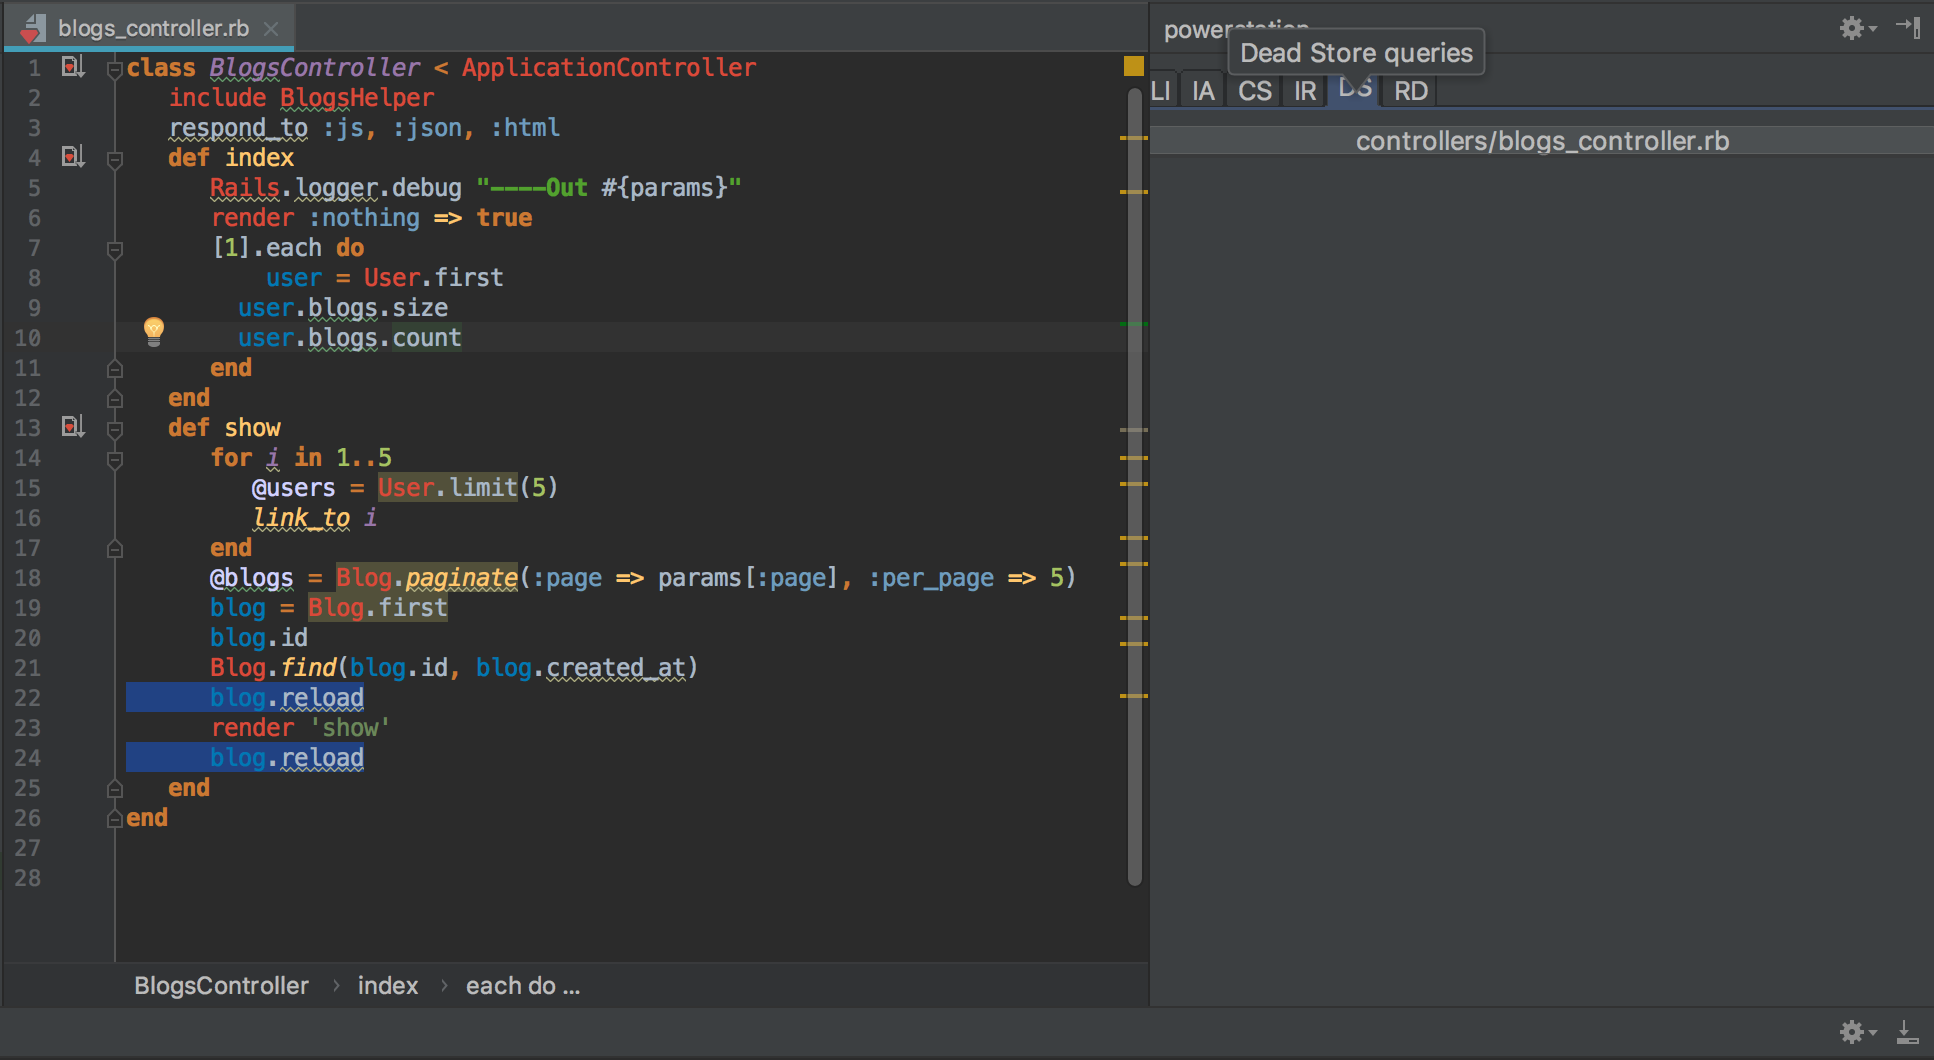
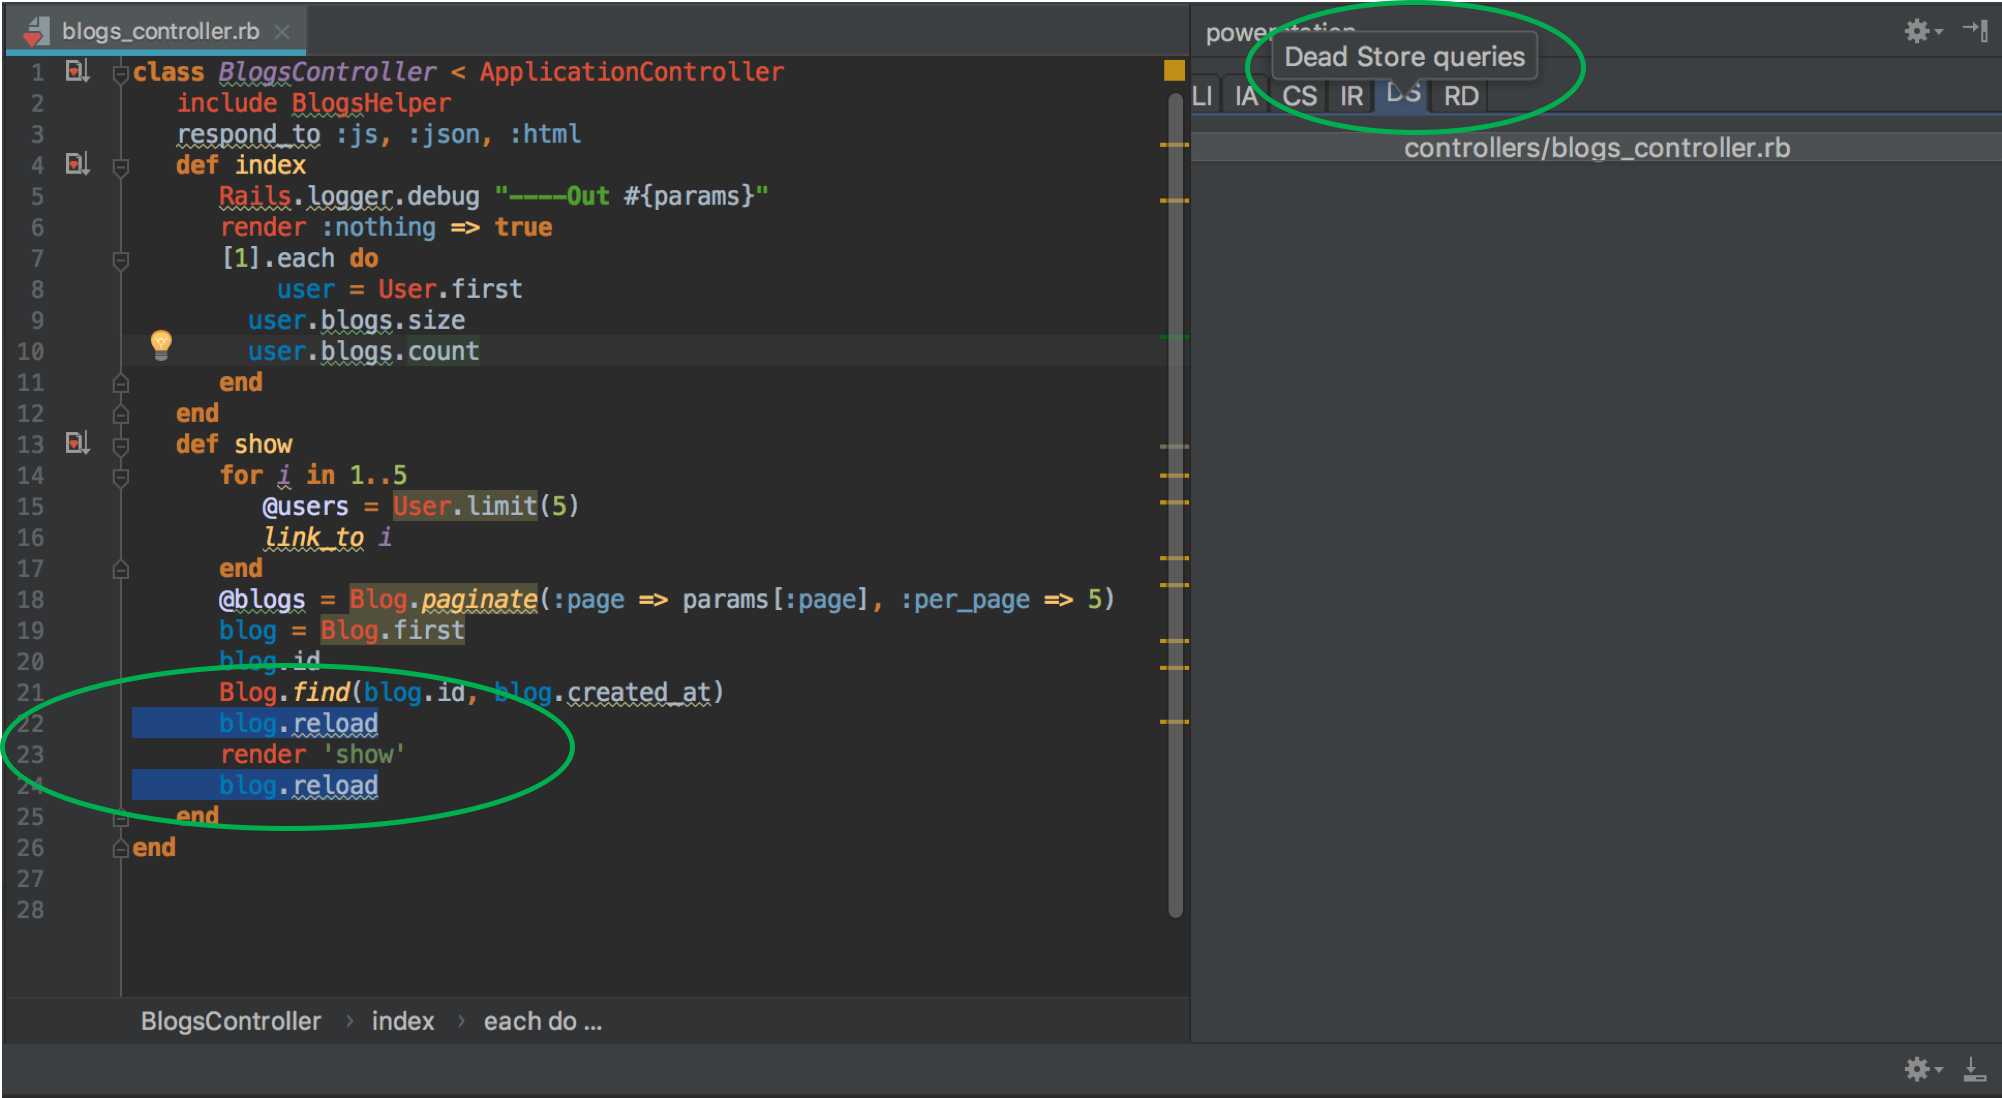
add circle to screenshots

diff --git a/css/main.scss b/css/main.scss
@@ -129,7 +129,8 @@ p img {
 
 .text-with-screenshots {
   p img{
-    max-width: 50%;
+    max-width: 70%;
   }
+  font-size: 18px;
 }
 

diff --git a/powerstation/docs/howtouse.md b/powerstation/docs/howtouse.md
@@ -10,35 +10,35 @@ layout: powerstation
 
 We use a small [blogging project](https://github.com/jwyoung1818/blog) to explain how to use PowerStation.
 
-1. Open your project with RubyMine:
-![Open Project](../../screenshots/load_project.png)
+1. Open your project with RubyMine:<br/>
+![Open Project](../../screenshots/load_project.png)<br/>
 
-2. Choose any file you want to analyze, and click `PowerStation`->`Analyze` to analyze the file:
-![Analyze](../../screenshots/navigate.png)
+2. Choose any file you want to analyze, and click `PowerStation`->`Analyze` to analyze the file:<br/>
+![Analyze](../../screenshots/navigate.png)<br/>
 
 3. Then you can click `PowerStation`->`Show` to check the result. Current version performs six types of analysis (LI, IA, CS, IR, DS and RD, which are explained in [features](../features/)). The problematic code lines are highlighted with blue.
 
-* Loop Invariant (LI):
-![Loop Invariant](../../screenshots/loop_invariant.png)
+* **Loop Invariant (LI)**:<br/>
+![Loop Invariant](../../screenshots/loop_invariant.png)<br/>
 Window on the left shows the lines of problematic code (which are also highlighted).
 
-* Inefficient API (IA):
-![Inefficient API highlight](../../screenshots/inefficient_api_before.png)
+* **Inefficient API (IA)**:<br/>
+![Inefficient API highlight](../../screenshots/inefficient_api_before.png)<br/>
 
-When clicking `Fix` on the left-hand-side window, PowerStation fixes the selected lines with a more efficient API. In this case, the `count` is replaced with `size`.
-![Inefficient API fix](../../screenshots/inefficient_api_after.png)
+When clicking `Fix` on the left-hand-side window, PowerStation fixes the selected lines with a more efficient API. In this case, the `count` is replaced with `size`.<br/>
+![Inefficient API fix](../../screenshots/inefficient_api_after.png)<br/>
 
-* Common Subpexression (CS):
-![Common Subexpression](../../screenshots/common_subexpr.png)
+* **Common Subpexression (CS)**:<br/>
+![Common Subexpression](../../screenshots/common_subexpr.png)<br/>
 
-* Inefficient Rendering (IR):
-![Common Subexpression](../../screenshots/inefficient_render.png)
+* **Inefficient Rendering (IR)**:<br/>
+![Common Subexpression](../../screenshots/inefficient_render.png)<br/>
 
-* Dead Store Queries (DS):
-![Dead Store Queries](../../screenshots/dead_store.png)
+* **Dead Store Queries (DS)**:<br/>
+![Dead Store Queries](../../screenshots/dead_store.png)<br/>
 
-* Redundant Data Retrieval (RD):
-![Redundant Data Retrieval](../../screenshots/redundant_retrieval.png)
+* **Redundant Data Retrieval (RD)**:<br/>
+![Redundant Data Retrieval](../../screenshots/redundant_retrieval.png)<br/>
 When moving the cursor to the problematic lines, PowerStation shows which fields are being retrieved but not used later.
 
 </div>

diff --git a/powerstation/docs/install.md b/powerstation/docs/install.md
@@ -28,7 +28,7 @@ $ gem install activesupport
 
 4. Download [powerstation](https://plugins.jetbrains.com/plugin/10604-powerstation).
 
-5. Open RubyMine and go to `preference`->`plugin`, then click `Install plugin from disk`, and select the powerstation jar file just downloaded.
+5. Open RubyMine and go to `preference`->`plugin`, then click `Install plugin from disk`, and select the powerstation jar file just downloaded.<br/>
 ![Install plugin](../../screenshots/load_plugin.png)
 
 6. Open your project with RubyMine and you're ready to go!
